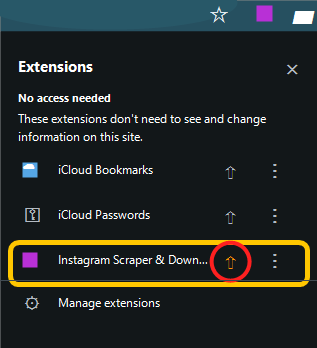
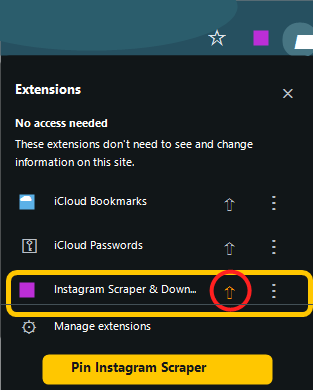
Finalize Instagram pin screenshot

diff --git a/templates/instagram_extension.html b/templates/instagram_extension.html
@@ -121,7 +121,7 @@
             <h3>Pin Instagram Scraper</h3>
             <p>Find Instagram Scraper in the menu. To pin the extension in Chrome, click the pin icon shown in the circle.</p>
           </div>
-          <img class="real-screenshot menu-shot pin-shot" src="/static/images/extension/pin-extension-highlight.png?v=pin-step-clean-3" width="317" height="348" style="width:250px;max-width:100%;height:auto;" alt="Chrome Extensions menu with Instagram Scraper highlighted and pin icon circled">
+          <img class="real-screenshot menu-shot pin-shot" src="/static/images/extension/pin-extension-highlight.png?v=pin-step-final" width="313" height="390" style="width:313px;max-width:100%;height:auto;" alt="Chrome Extensions menu with Instagram Scraper highlighted and pin icon circled">
         </article>
 
         <article class="setup-step">
